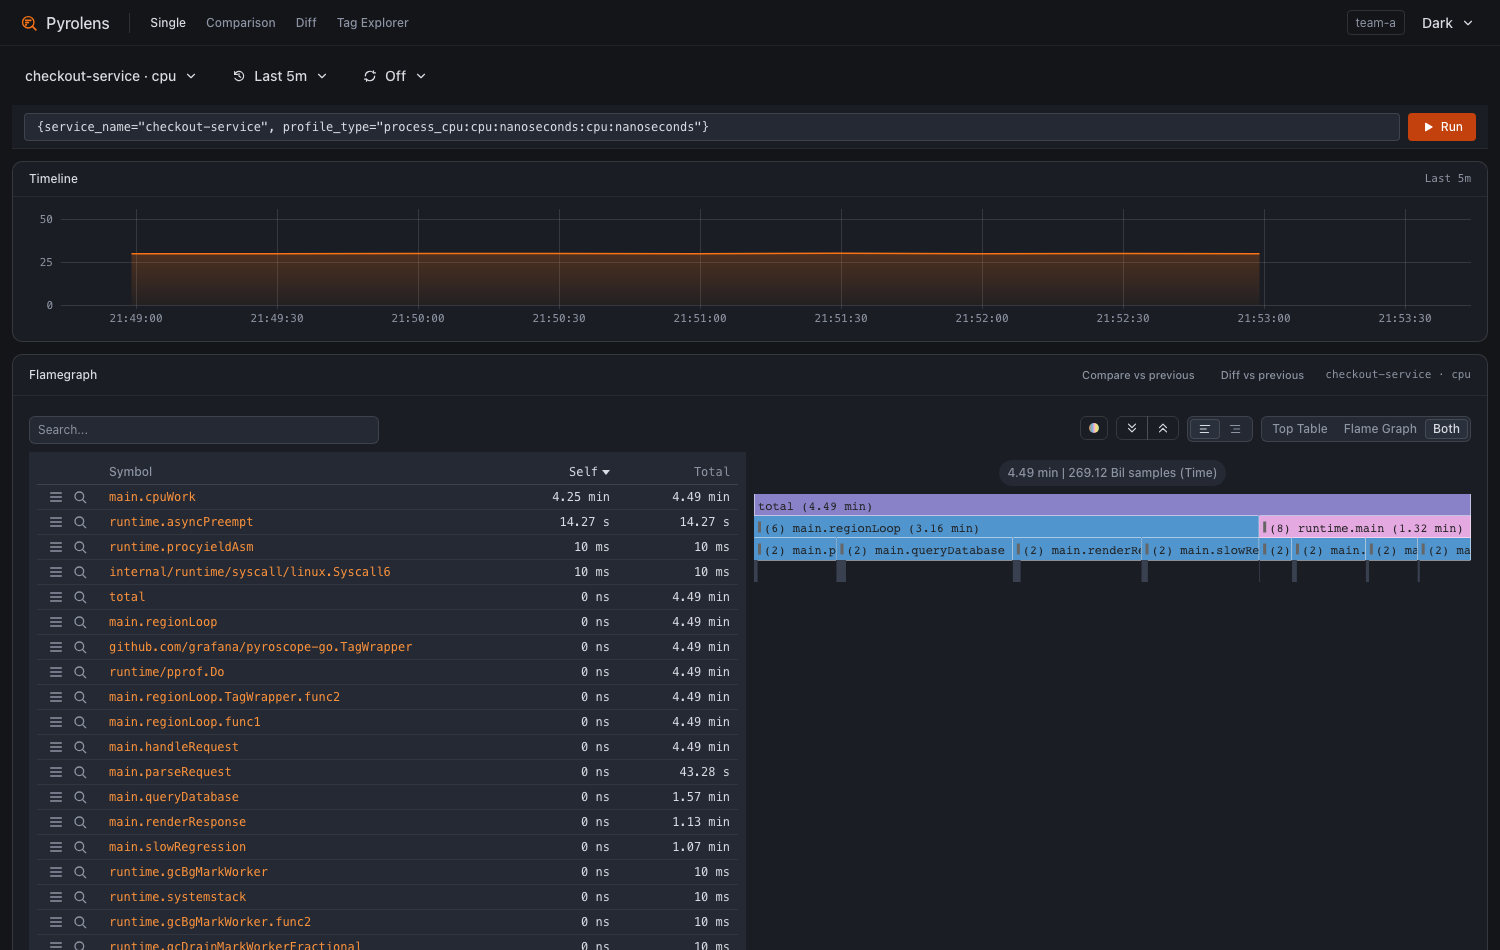
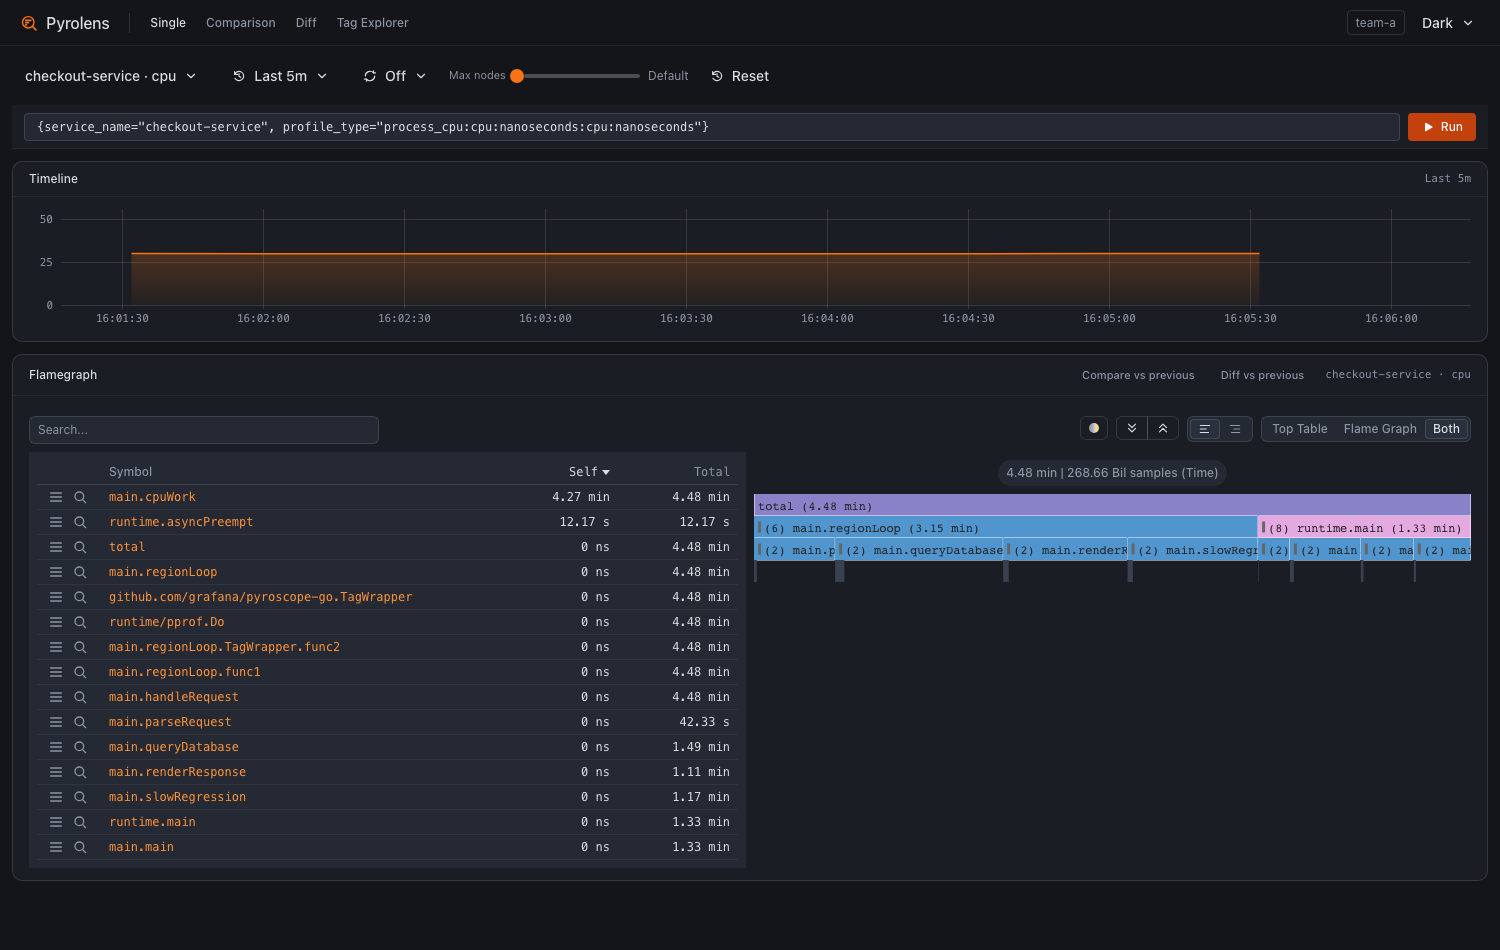
README screenshots: retake against the v0.1.6 UI (#65)
The successor to #51 (closed as superseded): the four README screenshots
predated the Max nodes slider, the Reset button, Diff's single Run and
the loading metas — all now visible. Retaken from the dev environment on
the released v0.1.6 UI; the Diff shot keeps the phase-aligned one-minute
windows so the injected `slowRegression` tops the ranking (+38%, caption
aligned to the shot).

Screenshots-only + one caption line; no code changes.

🤖 Generated with [Claude Code](https://claude.com/claude-code)

diff --git a/README.md b/README.md
@@ -36,9 +36,9 @@ brings the classic workflow back, plus a few things the old UI never had:
 ## The views
 
 **Diff** — what got slower between two windows, ranked. Here the injected
-`slowRegression` frame jumps out at `+1023%`, red in the flame graph. Because
-the diff is one query over both windows, Diff has a single Run above the
-panes that commits both edits at once, instead of a Run per pane.
+`slowRegression` frame tops the ranking at `+38%`, red in the flame graph.
+Because the diff is one query over both windows, Diff has a single Run
+above the panes that commits both edits at once, instead of a Run per pane.
 
 ![Diff view](docs/screenshots/diff-dark.png)
 
